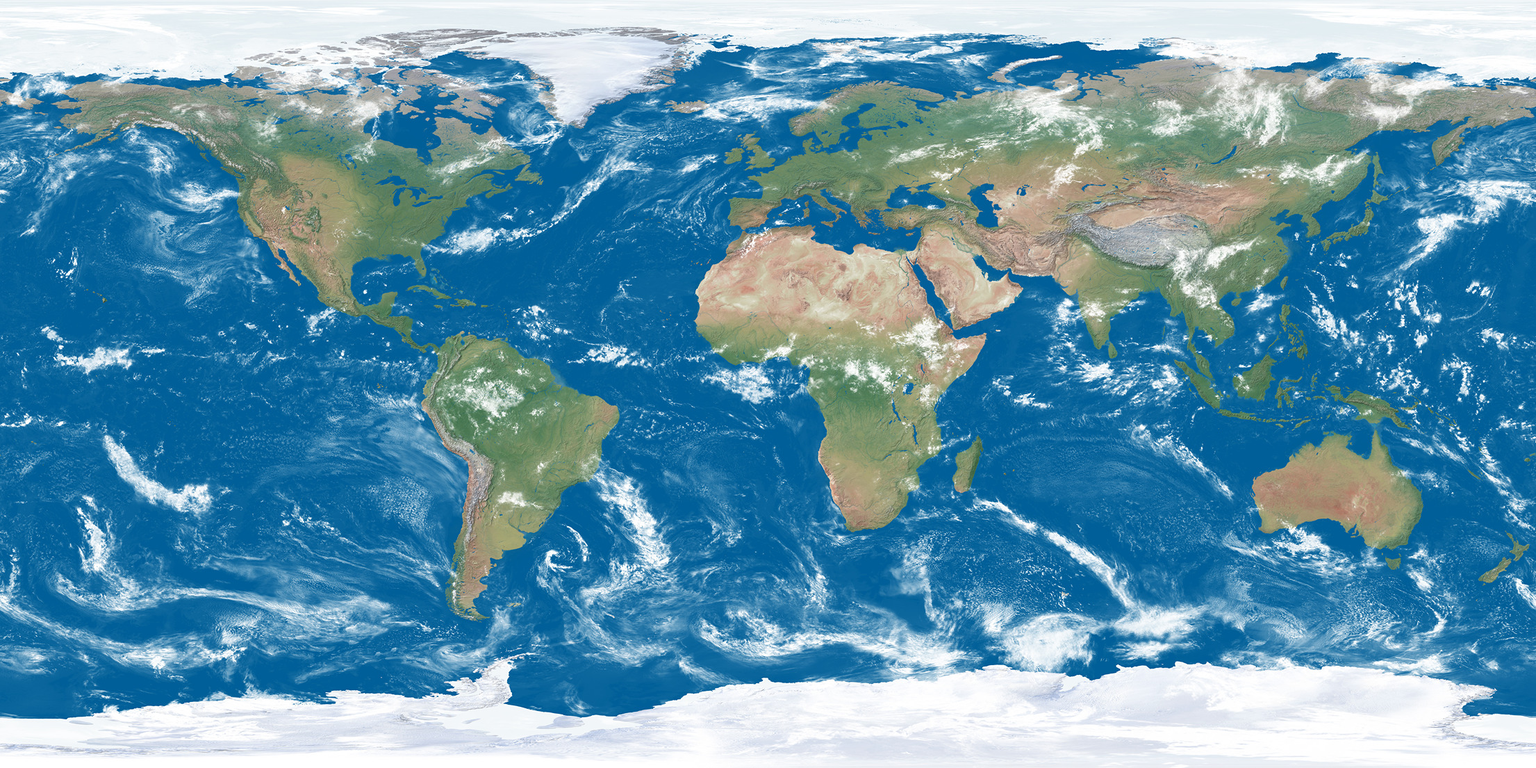
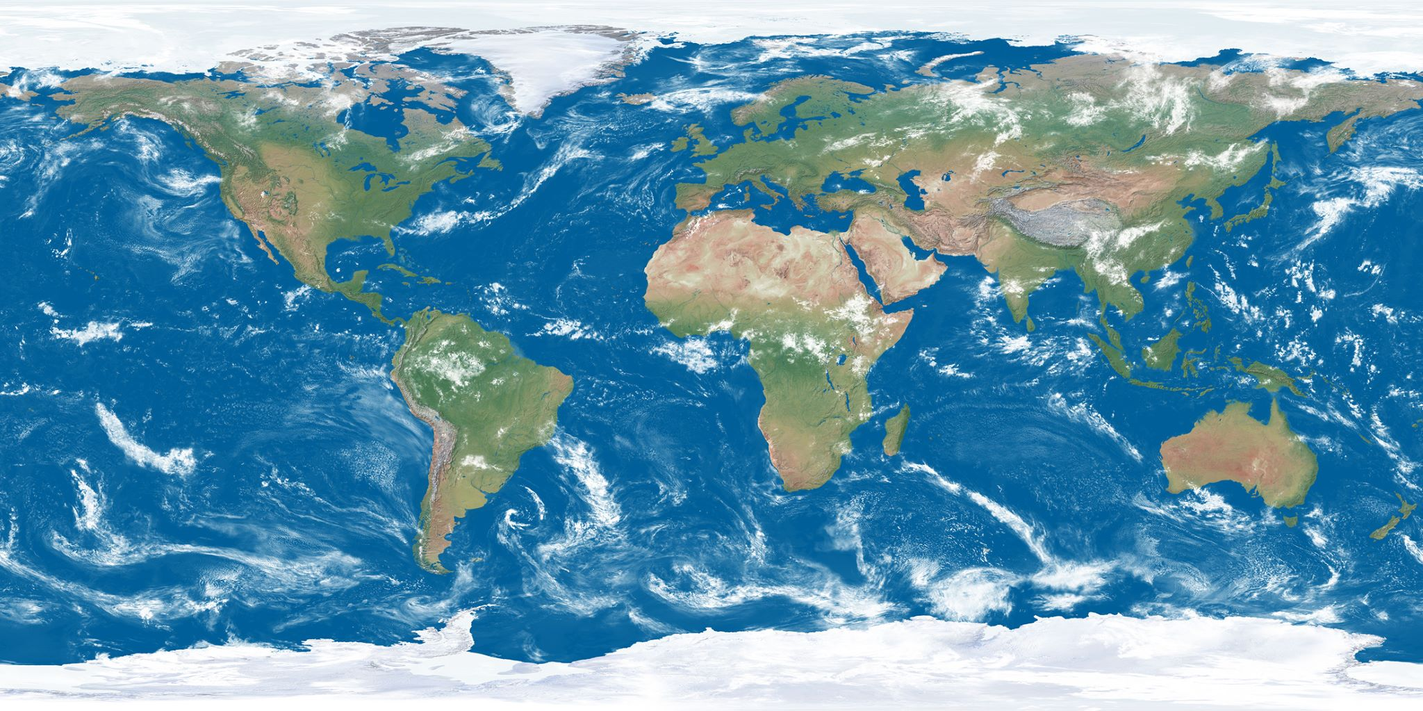
lower image res for performance

diff --git a/frontend/src/components/models/PlanetRTF.jsx b/frontend/src/components/models/PlanetRTF.jsx
@@ -65,8 +65,7 @@ export default function Planets(props) {
   const uranus = useRef();
   const neptune = useRef();
   const Ven = useRef();
-  const moon = useRef()
-  const moon2 = useRef()
+  const moonPosEarth = useRef()
   const moonPos = useRef()
 
 
@@ -249,7 +248,7 @@ export default function Planets(props) {
       //set relative orbit speed
       sun.current.rotation.y += 0.0004;
       kuiperBelt.current.rotation.z += 0.0004;
-      mercury.current.rotation.y += 0.03;
+      mercury.current.rotation.y += 0.026;
       venus.current.rotation.y += 0.014;
       earth.current.rotation.y += 0.008;
       mars.current.rotation.y += 0.002;
@@ -258,7 +257,7 @@ export default function Planets(props) {
       uranus.current.rotation.y += 0.0001;
       neptune.current.rotation.y += 0.00007;
       moonPos.current.rotation.y += 0.008;
-      moon2.current.rotation.y += 0.02;
+      moonPosEarth.current.rotation.y += 0.02;
     }
   });
 
@@ -274,7 +273,7 @@ export default function Planets(props) {
     uranus.current.rotation.set(0, 0, 0)
     neptune.current.rotation.set(0, 0, 0)
     moonPos.current.rotation.set(0,0,0)
-    moon2.current.rotation.set(0,0,0)
+    moonPosEarth.current.rotation.set(0,0,0)
     invalidate();
   }
 
@@ -366,7 +365,7 @@ export default function Planets(props) {
       <group ref={mercury}>
         <mesh onClick={handleClickMercury} onPointerOver={() => { document.body.style.cursor = 'pointer'; }} onPointerOut={() => { document.body.style.cursor = 'auto'; }}>
           <Sphere args={[1, 80, 80]} scale={0.1} position={[16, 0, 0]}>
-            <meshStandardMaterial map={useLoader(THREE.TextureLoader, ('./src/assets/img/mercMap.jpg'))} />
+            <meshStandardMaterial map={useLoader(THREE.TextureLoader, ('./src/assets/img/700_mercMap.jpg'))} />
           </Sphere>
         </mesh>
       </group>
@@ -374,7 +373,7 @@ export default function Planets(props) {
       <group ref={Ven} position={[0,0,0]}>
         <mesh ref={venus} onClick={handleClickVenus} onPointerOver={() => { document.body.style.cursor = 'pointer'; }} onPointerOut={() => { document.body.style.cursor = 'auto'; }}>
           <Sphere args={[1, 80, 80]} scale={0.3} position={[22, 0, 0]}>
-            <meshStandardMaterial map={useLoader(THREE.TextureLoader, ('./src/assets/img/2k_venus_atmosphere.jpg'))} />
+            <meshStandardMaterial map={useLoader(THREE.TextureLoader, ('./src/assets/img/700_venus_atmosphere.jpg'))} />
           </Sphere>
         </mesh>
       </group>
@@ -382,14 +381,14 @@ export default function Planets(props) {
       <group ref={earth}>
         <mesh onClick={handleClickEarth} onPointerOver={() => { document.body.style.cursor = 'pointer'; }} onPointerOut={() => { document.body.style.cursor = 'auto'; }}>
           <Sphere args={[1, 80, 80]} scale={0.4} position={[28, 0, 0]} rotation={[-Math.PI / 2, 1.8, Math.PI / 2]}>
-            <meshStandardMaterial map={useLoader(THREE.TextureLoader, ('./src/assets/img/2k_earth.jpg'))} />
+            <meshStandardMaterial map={useLoader(THREE.TextureLoader, ('./src/assets/img/700_earth.jpg'))} />
           </Sphere>
         </mesh>
       </group>
 
       <group ref={moonPos} position={[0,0,0]}>
-      <group ref={moon} position={[28,0,0]}>
-      <mesh ref={moon2} onClick={handleClickMoon} onPointerOver={() => { document.body.style.cursor = 'pointer'; }} onPointerOut={() => { document.body.style.cursor = 'auto'; }}>
+      <group position={[28,0,0]}>
+      <mesh ref={moonPosEarth} onClick={handleClickMoon} onPointerOver={() => { document.body.style.cursor = 'pointer'; }} onPointerOut={() => { document.body.style.cursor = 'auto'; }}>
       <Sphere args={[1, 80, 80]} scale={0.08} position={[1, 0.5, 0]} rotation={[-Math.PI / 2, 1.8, Math.PI / 2]}>
             <meshStandardMaterial map={useLoader(THREE.TextureLoader, ('./src/assets/img/moonTexture.jpg'))} />
           </Sphere>
@@ -400,7 +399,7 @@ export default function Planets(props) {
       <group ref={mars}>
         <mesh onClick={handleClickMars} onPointerOver={() => { document.body.style.cursor = 'pointer'; }} onPointerOut={() => { document.body.style.cursor = 'auto'; }}>
           <Sphere args={[1, 80, 80]} scale={0.2} position={[36, 0, 0]} rotation={[-Math.PI / 2, 1.8, Math.PI / 2]}>
-            <meshStandardMaterial map={useLoader(THREE.TextureLoader, ('./src/assets/img/2k_mars.jpg'))} />
+            <meshStandardMaterial map={useLoader(THREE.TextureLoader, ('./src/assets/img/700_mars.jpg'))} />
           </Sphere>
         </mesh>
       </group>
@@ -409,7 +408,7 @@ export default function Planets(props) {
       <group ref={jupiter}>
         <mesh onClick={handleClickJupiter} onPointerOver={() => { document.body.style.cursor = 'pointer'; }} onPointerOut={() => { document.body.style.cursor = 'auto'; }}>
           <Sphere args={[1, 80, 80]} scale={2} position={[62, 0, 0]} rotation={[-Math.PI / 2, 1.7, Math.PI / 2]} >
-            <meshStandardMaterial map={useLoader(THREE.TextureLoader, ('./src/assets/img/2k_jupiter.jpg'))} />
+            <meshStandardMaterial map={useLoader(THREE.TextureLoader, ('./src/assets/img/700_jupiter.jpg'))} />
           </Sphere>
         </mesh>
       </group>
@@ -418,7 +417,7 @@ export default function Planets(props) {
       <group ref={saturn} >
         <mesh onClick={handleClickSaturn} onPointerOver={() => { document.body.style.cursor = 'pointer'; }} onPointerOut={() => { document.body.style.cursor = 'auto'; }}>
           <Sphere args={[1, 80, 80]} scale={1.3} rotation={[-Math.PI / 2, 1, Math.PI / 2]} position={[85,0,0]}>
-            <meshStandardMaterial map={useLoader(THREE.TextureLoader, ('./src/assets/img/2k_saturn.jpg'))} />
+            <meshStandardMaterial map={useLoader(THREE.TextureLoader, ('./src/assets/img/700_saturn.jpg'))} />
           </Sphere>
         </mesh>
 
@@ -499,19 +498,19 @@ export default function Planets(props) {
 
 
         <mesh>
-          <Ring args={[3.05, 3.14, 100]}  rotation={[-Math.PI / 2, 4.8, Math.PI / 2]}position={[105,0,0]}>
+          <Ring args={[2, 2.1, 100]}  rotation={[-Math.PI / 2, 4.8, Math.PI / 2]}position={[105,0,0]}>
           <meshPhysicalMaterial
               roughness={0} reflectivity={0} metalness={0} transmission={0.98} clearcoat={0} clearcoatRoughness={0} ior={1} color={'#ffffff'} side={THREE.DoubleSide}/>
           </Ring>
         </mesh>
         <mesh>
-          <Ring args={[3.4, 3.47, 100]}  rotation={[-Math.PI / 2, 4.8, Math.PI / 2]}position={[105,0,0]}>
+          <Ring args={[2.2, 2.25, 100]}  rotation={[-Math.PI / 2, 4.8, Math.PI / 2]}position={[105,0,0]}>
           <meshPhysicalMaterial
               roughness={0} reflectivity={0} metalness={0} transmission={0.95} clearcoat={0} clearcoatRoughness={0} ior={1} color={'#d0fcff'} side={THREE.DoubleSide}/>
           </Ring>
         </mesh>
         <mesh>
-          <Ring args={[3.7, 3.75, 100]}  rotation={[-Math.PI / 2, 4.8, Math.PI / 2]}position={[105,0,0]}>
+          <Ring args={[2.3, 2.45, 100]}  rotation={[-Math.PI / 2, 4.8, Math.PI / 2]}position={[105,0,0]}>
           <meshPhysicalMaterial
               roughness={0} reflectivity={0} metalness={0} transmission={0.98} clearcoat={0} clearcoatRoughness={0} ior={1} color={'#ffffff'} side={THREE.DoubleSide}/>
           </Ring>
@@ -520,17 +519,17 @@ export default function Planets(props) {
       <group ref={neptune}>
         <mesh onClick={handleClickNeptune} onPointerOver={() => { document.body.style.cursor = 'pointer'; }} onPointerOut={() => { document.body.style.cursor = 'auto'; }}>
           <Sphere args={[1, 80, 80]}  scale={1} rotation={[-Math.PI / 2, 1.3, Math.PI / 2]} position={[125, 0, 0]}>
-            <meshStandardMaterial map={useLoader(THREE.TextureLoader, ('./src/assets/img/neptuneTexture.jpg'))} />
+            <meshStandardMaterial map={useLoader(THREE.TextureLoader, ('./src/assets/img/700_neptuneTexture.jpg'))} />
           </Sphere>
         </mesh>
 
         <mesh>
-          <Ring args={[3.4, 3.45, 100]} rotation={[-Math.PI / 2, 6.1, Math.PI / 2]} position={[125, 0, 0]}>
+          <Ring args={[2.3, 2.35, 100]} rotation={[-Math.PI / 2, 6.1, Math.PI / 2]} position={[125, 0, 0]}>
             <meshStandardMaterial color={'#383838'} opacity={'0.5'} side={THREE.DoubleSide} />
           </Ring>
         </mesh>
         <mesh>
-          <Ring args={[3.6, 3.65, 100]} rotation={[-Math.PI / 2, 6.1, Math.PI / 2]} position={[125, 0, 0]}>
+          <Ring args={[2.4, 2.45, 100]} rotation={[-Math.PI / 2, 6.1, Math.PI / 2]} position={[125, 0, 0]}>
             <meshStandardMaterial color={'#313131'} opacity={'0.5'} side={THREE.DoubleSide} />
           </Ring>
         </mesh>

diff --git a/frontend/src/components/models/Galaxy1.jsx b/frontend/src/components/models/Galaxy1.jsx
@@ -40,7 +40,7 @@ function Galaxy(props) {
     <>
       {!isCanvasOpen ? (
         <>
-          <Canvas style={{ background: '#020202d3' }} camera={{ fov: 15, position: [0, 50, 0] }}>
+          <Canvas style={{ background: '#000000d1' }} camera={{ fov: 15, position: [0, 50, 0] }}>
           <OrbitControls enableZoom={false} enablePan={false} enableRotate={false} autoRotate={true}/>
           <Starfield/>
             <ambientLight intensity={1} />
@@ -73,7 +73,7 @@ function Galaxy(props) {
           </Canvas>
         </>
       ) : (
-        <Canvas style={{ background: '#02020292' }} camera={{position:[0,30,300], fov:15}}>
+        <Canvas antialias={false} style={{ background: '#02020292' }} camera={{position:[0,30,300], fov:15}}>
           <Html position={[null]}><button id='close' onClick={handleClosePlanets}>Close</button></Html>
           <Planet />
         </Canvas>
